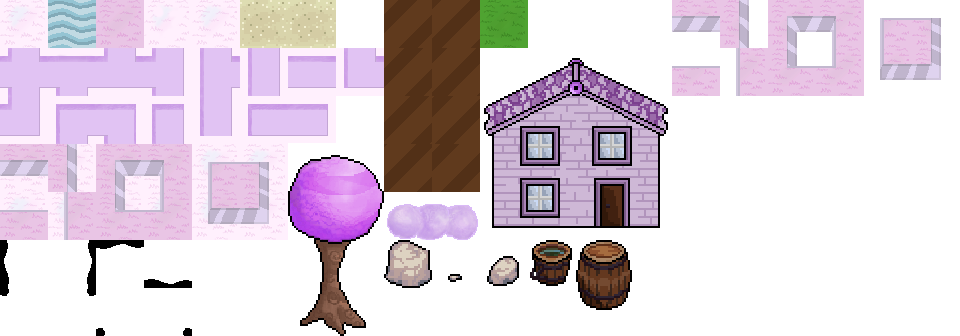
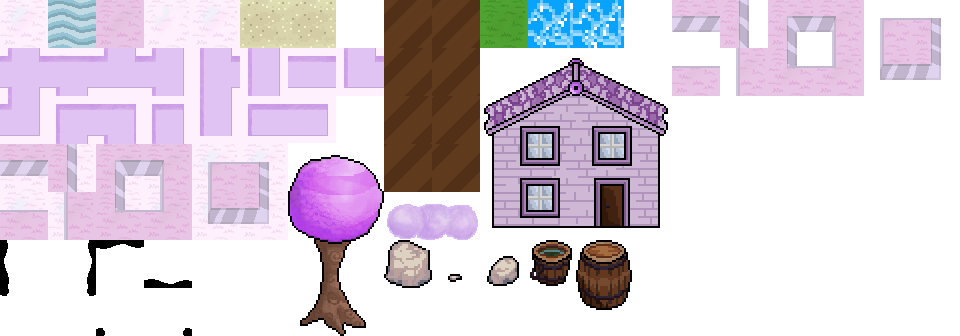
Testing out an actual water texture instead of chocolate river

Changed region(s): [[0.5312, 0.0, 0.6562, 0.1488]]

diff --git a/src/terrain/tile_image_loader.py b/src/terrain/tile_image_loader.py
@@ -46,14 +46,16 @@ wall_10 = (192, 192, 48, 48)
 wall_11 = (240, 144, 48, 48)
 wall_12 = (240, 192, 48, 48)
 choc_river = (
-    (384, 0, 48, 48),
-    (384, 48, 48, 48),
-    (384, 96, 48, 48),
-    (384, 144, 48, 48),
-    (432, 0, 48, 48),
-    (432, 48, 48, 48),
-    (432, 96, 48, 48),
-    (432, 144, 48, 48)
+    (528, 0, 48, 48),
+    (576, 0, 48, 48)
+    # (384, 0, 48, 48),
+    # (384, 48, 48, 48),
+    # (384, 96, 48, 48),
+    # (384, 144, 48, 48),
+    # (432, 0, 48, 48),
+    # (432, 48, 48, 48),
+    # (432, 96, 48, 48),
+    # (432, 144, 48, 48)
 )
 tree = (288, 144, 96, 192)
 shore_1 = {"template": (0, 240, 48, 48),
